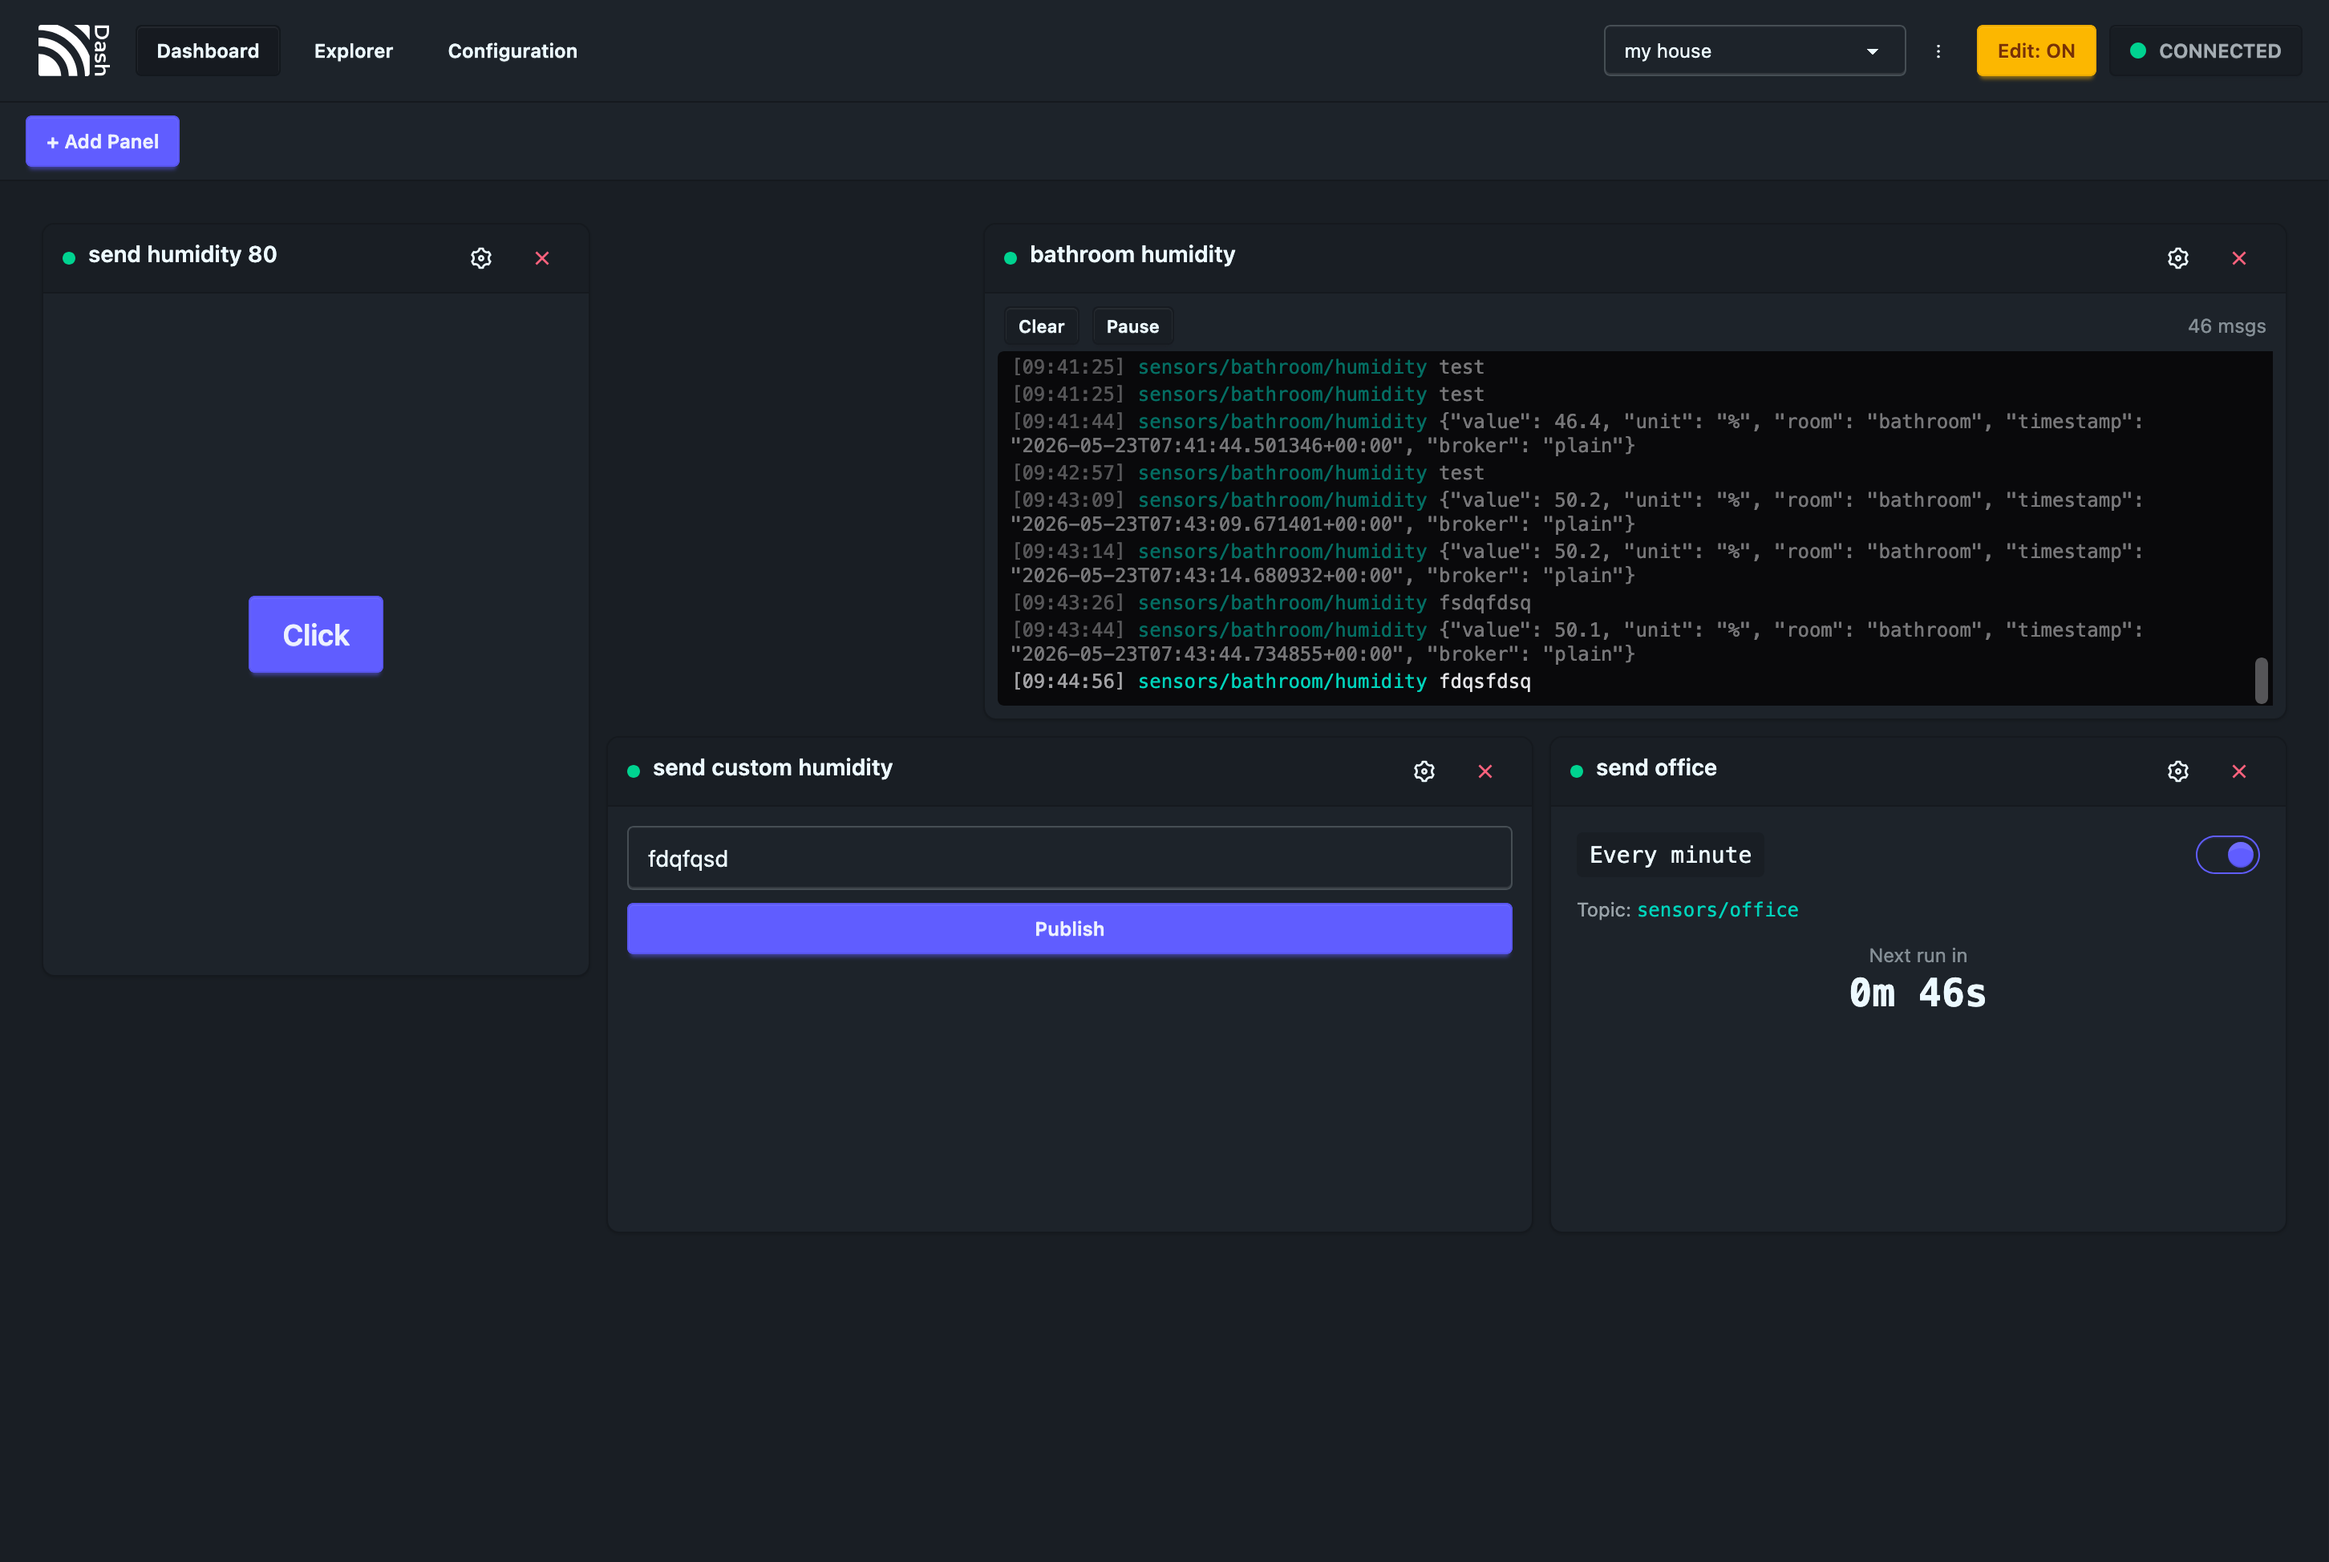
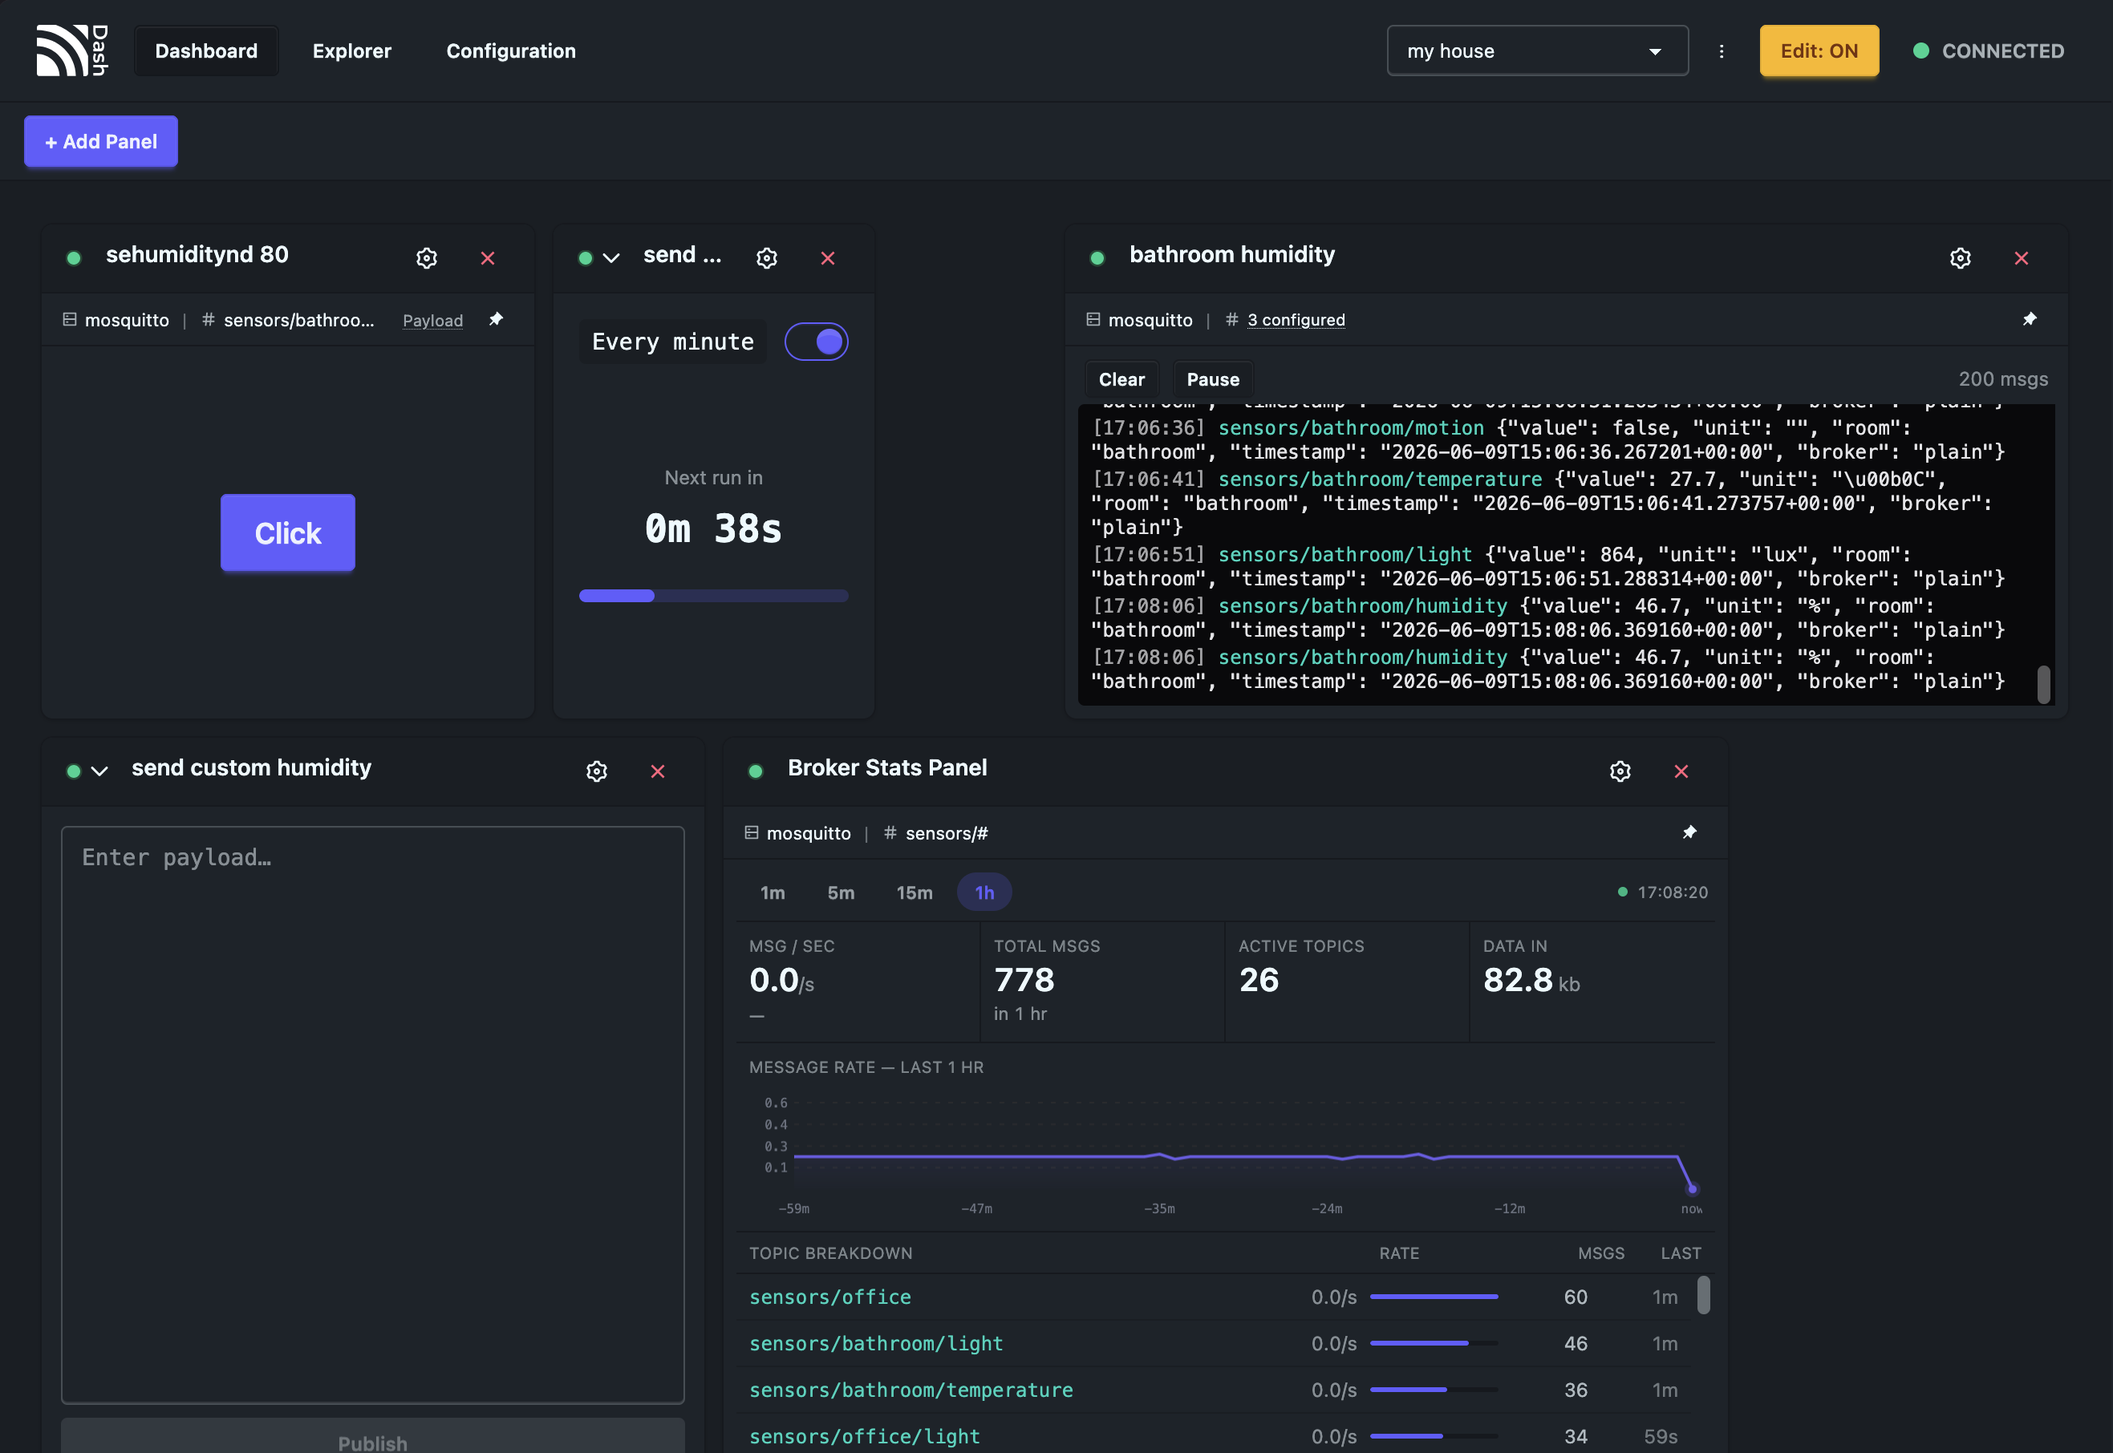
feat(BrokerStats): enhance chart responsiveness and improve axis visibility in stats panel

diff --git a/frontend/src/components/panels/BrokerStatsPanel.tsx b/frontend/src/components/panels/BrokerStatsPanel.tsx
@@ -386,9 +386,18 @@ export default function BrokerStatsPanel({
       if (data.length === 0) return;
 
       const maxV = Math.max(...data, 0.5);
-      const pad = { t: 8, b: 18, l: 28, r: 6 };
+      // Hide axes when the canvas is too short to render them without clipping.
+      const showXAxis = H >= 36;
+      const showYAxis = W >= 60;
+      const pad = {
+        t: 8,
+        b: showXAxis ? 18 : 4,
+        l: showYAxis ? 28 : 4,
+        r: 6,
+      };
       const iW = W - pad.l - pad.r;
       const iH = H - pad.t - pad.b;
+      if (iH <= 0) return;
       const denom = data.length > 1 ? data.length - 1 : 1;
       const xOf = (i: number) => pad.l + (i / denom) * iW;
       const yOf = (v: number) => pad.t + iH - (v / (maxV * 1.15)) * iH;
@@ -404,22 +413,26 @@ export default function BrokerStatsPanel({
         ctx.lineTo(W - pad.r, y);
         ctx.stroke();
         ctx.setLineDash([]);
-        ctx.fillStyle = TEXT_C;
-        ctx.font = "8px monospace";
-        ctx.textAlign = "right";
-        ctx.fillText((maxV * 1.15 * f).toFixed(1), pad.l - 4, y + 3);
+        if (showYAxis) {
+          ctx.fillStyle = TEXT_C;
+          ctx.font = "8px monospace";
+          ctx.textAlign = "right";
+          ctx.fillText((maxV * 1.15 * f).toFixed(1), pad.l - 4, y + 3);
+        }
       });
 
-      // X-axis labels (time ago, based on bucket size)
-      ctx.fillStyle = TEXT_C;
-      ctx.font = "8px monospace";
-      ctx.textAlign = "center";
-      const ticks = Math.min(6, data.length);
-      for (let i = 0; i < ticks; i++) {
-        const idx =
-          ticks > 1 ? Math.round((i * (data.length - 1)) / (ticks - 1)) : 0;
-        const secAgo = (data.length - 1 - idx) * bucketSeconds;
-        ctx.fillText(secAgoLabel(secAgo), xOf(idx), H - 3);
+      // X-axis labels — count scaled to available width so labels never overlap.
+      if (showXAxis) {
+        ctx.fillStyle = TEXT_C;
+        ctx.font = "8px monospace";
+        ctx.textAlign = "center";
+        const ticks = Math.min(Math.max(2, Math.floor(iW / 30)), 6, data.length);
+        for (let i = 0; i < ticks; i++) {
+          const idx =
+            ticks > 1 ? Math.round((i * (data.length - 1)) / (ticks - 1)) : 0;
+          const secAgo = (data.length - 1 - idx) * bucketSeconds;
+          ctx.fillText(secAgoLabel(secAgo), xOf(idx), H - 3);
+        }
       }
 
       // Area gradient
@@ -510,11 +523,15 @@ export default function BrokerStatsPanel({
     drawRef.current();
   }, [activity, liveRate, currentRange]);
 
-  // Redraw on resize.
+  const panelRootRef = useRef<HTMLDivElement>(null);
+
+  // Redraw whenever the panel itself resizes (covers both window resize and panel drag).
   useEffect(() => {
-    const handler = () => drawRef.current();
-    window.addEventListener("resize", handler);
-    return () => window.removeEventListener("resize", handler);
+    const el = panelRootRef.current;
+    if (!el) return;
+    const observer = new ResizeObserver(() => drawRef.current());
+    observer.observe(el);
+    return () => observer.disconnect();
   }, []);
 
   const { rate, delta, liveTime, nowMs } = liveRate;
@@ -524,9 +541,9 @@ export default function BrokerStatsPanel({
   const maxCount = Math.max(1, ...topics.map((t) => t.count));
 
   return (
-    <div className="flex flex-col h-full text-xs">
+    <div ref={panelRootRef} className="flex flex-col h-full text-xs overflow-hidden">
       {/* Time range bar */}
-      <div className="flex items-center gap-1 px-1 pb-1.5 border-b border-base-300 overflow-hidden">
+      <div className="flex items-center gap-1 px-1 pb-1.5 border-b border-base-300 overflow-hidden shrink-0">
         {RANGE_OPTIONS.map((opt) => (
           <button
             key={opt.value}
@@ -548,7 +565,7 @@ export default function BrokerStatsPanel({
 
       {/* Stat tiles */}
       {showStatTiles && (
-        <div className="grid grid-cols-4 border-b border-base-300">
+        <div className="grid grid-cols-4 border-b border-base-300 shrink-0">
           <div className="px-2 py-2 border-r border-base-300">
             <div className="text-[10px] uppercase tracking-wide text-base-content/45">
               Msg / sec
@@ -612,37 +629,41 @@ export default function BrokerStatsPanel({
       {/* Chart */}
       {showChart && (
         <div
-          className={`px-2 py-2 border-b border-base-300 ${!showTopicBreakdown ? "flex-1 flex flex-col" : ""}`}
+          className="px-2 py-2 border-b border-base-300 flex-1 flex flex-col"
         >
-          <div className="text-[10px] uppercase tracking-wide text-base-content/45 mb-2">
+          <div className="text-[10px] uppercase tracking-wide text-base-content/45 mb-2 shrink-0">
             Message rate — last {RANGE_LABELS[currentRange]}
           </div>
-          <canvas
-            ref={canvasRef}
-            className={`block w-full ${!showTopicBreakdown ? "flex-1 min-h-22" : "h-22"}`}
-            onMouseMove={(e) => {
-              const canvas = canvasRef.current;
-              if (!canvas || !activity) return;
-              const rect = canvas.getBoundingClientRect();
-              const x = e.clientX - rect.left;
-              const n = activity.counts.length;
-              const iW = rect.width - 28 - 6;
-              const idx = Math.round(((x - 28) / iW) * (n - 1));
-              hoverBucketRef.current = Math.max(0, Math.min(n - 1, idx));
-              drawRef.current();
-            }}
-            onMouseLeave={() => {
-              hoverBucketRef.current = null;
-              drawRef.current();
-            }}
-          />
+          {/* Wrapper owns the flex height; canvas is absolute so its width/height
+              attributes never affect flex layout and don't trigger relayout loops. */}
+          <div className={`relative flex-1 ${!showTopicBreakdown ? "min-h-22" : "min-h-12"}`}>
+            <canvas
+              ref={canvasRef}
+              className="absolute inset-0 w-full h-full"
+              onMouseMove={(e) => {
+                const canvas = canvasRef.current;
+                if (!canvas || !activity) return;
+                const rect = canvas.getBoundingClientRect();
+                const x = e.clientX - rect.left;
+                const n = activity.counts.length;
+                const iW = rect.width - 28 - 6;
+                const idx = Math.round(((x - 28) / iW) * (n - 1));
+                hoverBucketRef.current = Math.max(0, Math.min(n - 1, idx));
+                drawRef.current();
+              }}
+              onMouseLeave={() => {
+                hoverBucketRef.current = null;
+                drawRef.current();
+              }}
+            />
+          </div>
         </div>
       )}
 
       {/* Topic breakdown */}
       {showTopicBreakdown && (
         <>
-          <div className="flex items-center px-2 py-1.5 border-b border-base-300">
+          <div className="flex items-center px-2 py-1.5 border-b border-base-300 shrink-0">
             <div className="flex-1 text-[10px] uppercase tracking-wide text-base-content/45">
               Topic breakdown
             </div>
@@ -657,7 +678,7 @@ export default function BrokerStatsPanel({
               last
             </div>
           </div>
-          <div className="flex-1 overflow-y-auto">
+          <div className={`min-h-0 overflow-y-auto ${showChart ? "max-h-1/3" : "flex-1"}`}>
             {topics.length === 0 ? (
               <div className="px-2 py-4 text-center text-base-content/40">
                 No messages in this range

diff --git a/README.md b/README.md
@@ -14,11 +14,8 @@
   <a href="https://github.com/jmischler72/mqtt-dashboard/blob/main/LICENSE.txt"><img src="https://img.shields.io/github/license/jmischler72/mqtt-dashboard?style=flat-square" alt="License"></a>
 </p>
 
-<p align="center">
-  <img src="assets/dashboard-page.png" width="200" alt="MQTT Dashboard Screenshot" />
-  <img src="assets/explorer-page.png" width="200" alt="MQTT Dashboard Screenshot" />
-  <img src="assets/config-page.png" width="200" alt="MQTT Dashboard Screenshot" />
-</p>
+<img src="assets/dashboard-page.png" alt="MQTT Dashboard Screenshot" />
+<img src="assets/explorer-page.png" alt="MQTT Dashboard Screenshot" />
 
 ---
 
